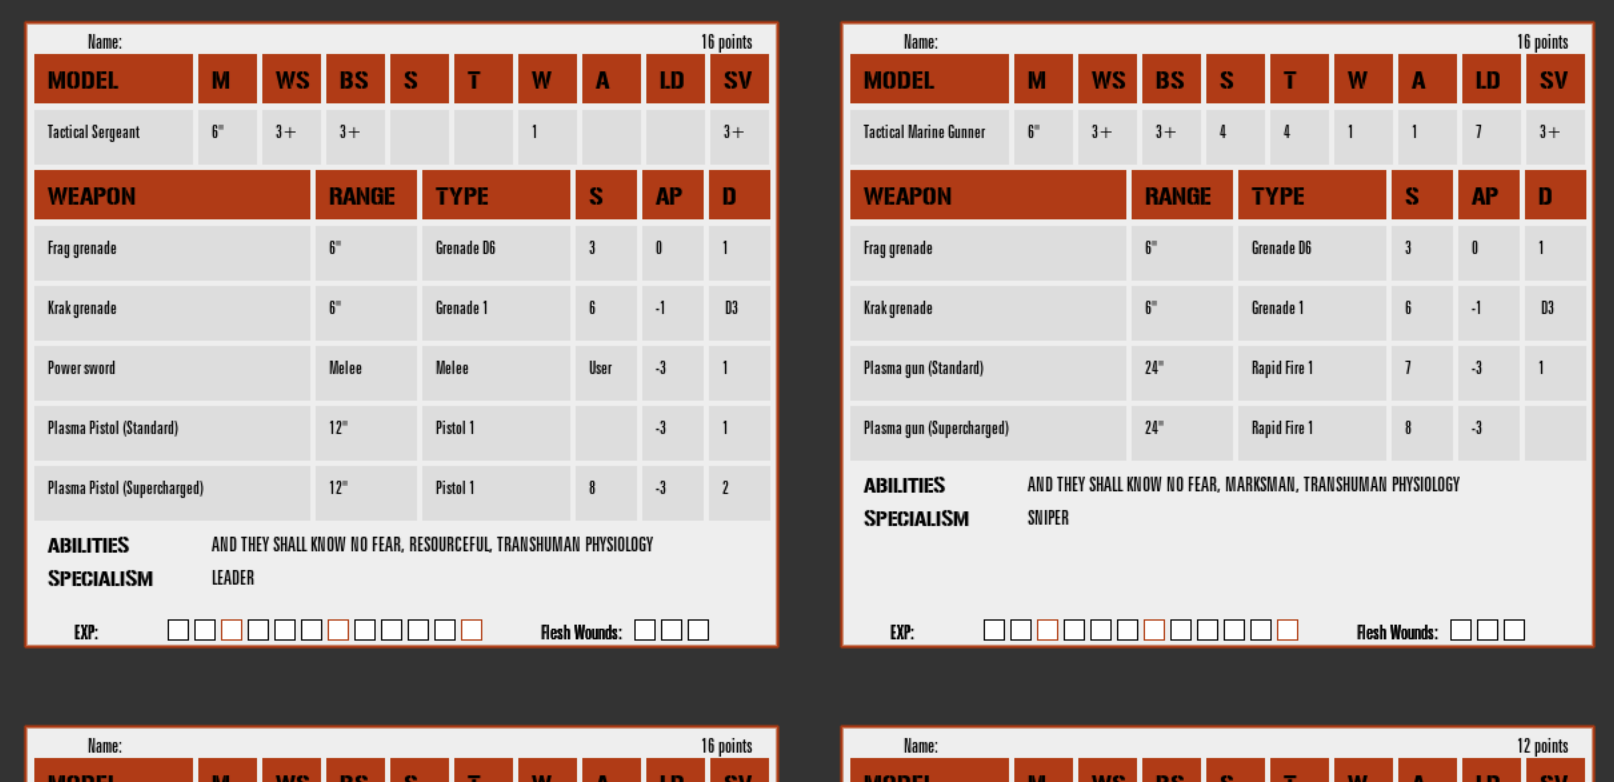
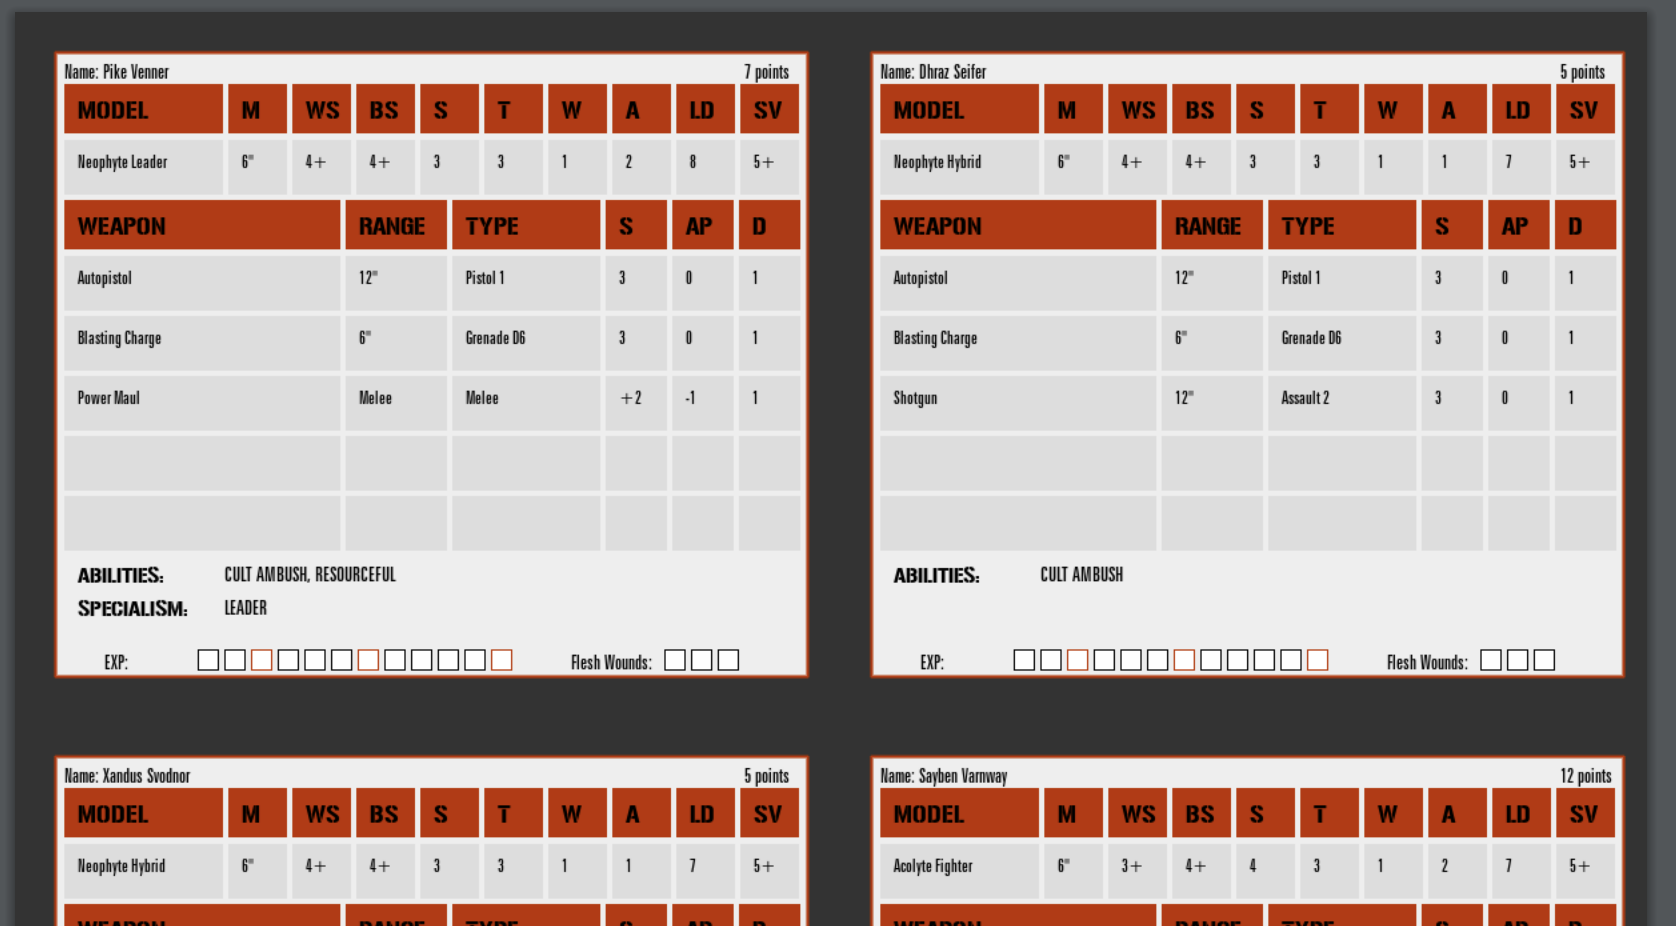
KT display fixes, UI tweak on landing page, new KT screenshots, and show custom names on KT units, if there is one

diff --git a/lib/ktRenderer.php b/lib/ktRenderer.php
@@ -26,8 +26,8 @@ class ktRenderer extends wh40kRenderer {
         $draw = $this->getDraw();
         $draw->setFontSize(15);
         $draw->setFont('../assets/kt_font.ttf');
-        $this->image->annotateImage($draw, 70 + $this->currentX, 20 + $this->currentY, 0, 'Name:');
-        $this->image->annotateImage($draw, 530 + $this->currentX, 20 + $this->currentY, 0, $unit['points'].' points');
+        $this->image->annotateImage($draw, 30 + $this->currentX, 20 + $this->currentY, 0, 'Name: '.$unit['custom_name']);
+        $this->image->annotateImage($draw, 540 + $this->currentX, 20 + $this->currentY, 0, $unit['points'].' points');
 
         $this->currentY += 24;
 
@@ -49,6 +49,17 @@ class ktRenderer extends wh40kRenderer {
         }
 
         # weapon statlines:
+        for($fake = count($unit['weapon_stat']); $fake < 5; $fake++) {
+            $unit['weapon_stat'][] = array(
+                'Weapon' => '',
+                'Range'  => '',
+                'Type'   => '',
+                'S'      => '',
+                'AP'     => '',
+                'D'      => '',
+            );
+        }
+
         if(count($unit['weapon_stat'])) {
             $colWidths = array(
                 'Weapon'    => 211,
@@ -112,11 +123,11 @@ class ktRenderer extends wh40kRenderer {
     public function renderKeywords($label='Something', $data=array(), $allCaps=true) {
         $x = $this->currentX + $this->margin + 10; 
         $font = '../assets/kt_title_font.ttf';
-        $text = strtoupper($label);
+        $text = strtoupper("$label:");
         $this->renderText($x, $this->currentY + 20, $text, 69, 14, $font);
 
 
-        $x        += 123;
+        $x        += 110;
         $font     = '../assets/kt_font.ttf';
         $contents = strtoupper(implode(', ', $data));
         $this->currentY += $this->renderText($x, $this->currentY + 19, $contents, 69, 16, $font);
@@ -150,7 +161,7 @@ return;
                 $guns[] = $gun['Weapon'];
             }
             $units[] = array(
-                'Name'       => ' ',
+                'Name'       => $unit['custom_name'],
                 'Model Type' => $unit['title'],
                 'Wargear'    => implode(', ', $guns),
                 'EXP'        => ' ',

diff --git a/public/index.php b/public/index.php
@@ -10,26 +10,35 @@
     <li><a href="/kt.php">Kill Team (2018)</a></li>
 </ul>
 
+<p>
+    <img src="output.png" alt="Output data card example" width="800px"/>
+</p>
+<p>
+    <img src="output_kt.png" alt="Output data card example" width="400px"/>
+    <img src="output_kard.png" alt="Output data card example" width="400px"/>
+</p>
+
 <h3>Release Notes</h3>
 <ul>
-    <li>Last update: <strong>14 August 2018</strong></li>
-    <li><a href="https://github.com/gregchiasson/warhams">Feel free to submit PRs on GitHub</a></li>
-    <li>Wrap text if it overflows on the Wound Tracker.</li>
-    <li>Add KillTeam support.</li>
+    <li>Last update: <strong>20 August 2018</strong></li>
+    <li>KillTeam display tweaks.</li>
+    <li>KillTeam shows custom unit names (if there is one, blank otherwise) on both card view and roster.</li>
+    <li>KillTeam bug fix: the 7th model would disappear into the warp between pages.</li>
 </ul>
 
 <h3>Known issues</h3>
 <ul>
-    <li>Some of the 40 .rosz files don't want to unzip - added error detection and a workaround.</li>
+    <li>Some of the .rosz files don't want to unzip - added error detection and a workaround.</li>
     <li>Mixed "soup" detachments are all beefed up.</li>
-    <li>IG squads show up with "1 guardsman"</li>
-    <li>Kill Team is missing the "new guy" and "dead" check boxes</li>
+    <li>IG squads show up with "1 guardsman".</li>
+    <li>Kill Team is missing the "new guy" and "dead" check boxes.</li>
 </ul>
 
 <h3>Credits</h3>
 <ul>
     <li>Brains of this outfit: TheChirurgeon</li>
     <li>Code: ANAmal.net</li>
+    <li>You: <a href="https://github.com/gregchiasson/warhams">submit PRs on GitHub</a></li>
 </ul>
 
 </body>

diff --git a/lib/ktROSParser.php b/lib/ktROSParser.php
@@ -35,7 +35,11 @@ class ktROSParser extends wh40kROSParser {
 
 
         // title
+        $clean['custom_name']  = null;
         $clean['title']  = (string) $d['name'];
+        if(isset($d['customName'])) {
+            $clean['custom_name']  = (string) $d['customName'];
+        }
 
         // model_stat
         $cols = array('M', 'WS', 'BS', 'S', 'T', 'W', 'A', 'Ld', 'Sv');
